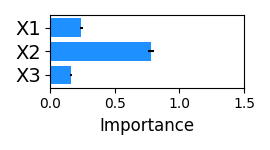
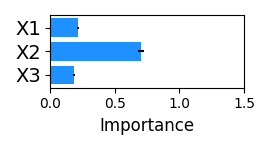
add sim-confounder R compatible parameters for training rf

Changed region(s): [[0.5037, 0.2667, 0.5926, 0.4267], [0.2667, 0.1067, 0.3259, 0.24], [0.237, 0.4267, 0.2963, 0.56]]

diff --git a/sim-confounder.py b/sim-confounder.py
@@ -33,7 +33,7 @@ explain_data_instance_num = 0 # the row index indicating which instance in the d
 decimal_places = 2 # integer used for rounding
 seed = 93 # the random seed (used in the data generating process, splitting process, the model fitting process, and the permutation importance calculations)
 results_path = "Results confounder-sim/Interpretation/"
-force_max_features_1 = True
+force_max_features_all = True
 # -------------------------- Run Simulations --------------------------
 
 if __name__ == '__main__':
@@ -86,9 +86,9 @@ if __name__ == '__main__':
         # Define model
         model, param_grid = define_model_confounder(pred_model=pred_model, fixed_seed=seed)
 
-        if force_max_features_1 == True:
+        if force_max_features_all == True:
             if (pred_model == "tree") or (pred_model == "rf"):
-                param_grid["max_features"] = [None]
+                param_grid["max_features"] = [3]
                 mf = "_mf1"
             else:
                 mf = ""

diff --git a/Params/Grids_confounder.py b/Params/Grids_confounder.py
@@ -19,10 +19,20 @@ lasso_param_grid = {"tol": [0.001],
 #                  "max_depth": [5, 10, 20],
 #                  "max_features": [0.3, 0.6, None]}
 
+#rf_param_grid = {"min_samples_split": [2, 4, 6],
+#                  "max_depth": [5, 10, 20],
+#                  "n_estimators": [50, 100, 250],
+#                  "max_features": [0.3]}
+#
+# tree_param_grid = {"min_samples_split": [2, 4, 6],
+#                  "max_depth": [5, 10, 20],
+#                  "max_features": [0.3]}
+
 rf_param_grid = {"min_samples_split": [2, 4, 6],
-                 "max_depth": [5, 10, 20],
-                 "n_estimators": [50, 100, 250],
-                 "max_features": [0.3]}
+                 "max_leaf_nodes": [20, 30, 40],
+                 "min_samples_leaf": [1, 2, 3, 4, 5],
+                 "n_estimators": [100, 200, 300],
+                 "max_features": [1]}
 
 tree_param_grid = {"min_samples_split": [2, 4, 6],
                  "max_depth": [5, 10, 20],

diff --git a/sim-confounder-inv.py b/sim-confounder-inv.py
@@ -1,3 +1,5 @@
+# Using a hidden confounder variable Z, to find X3 to be important
+
 from random import random
 import lime
 import lime.lime_tabular
